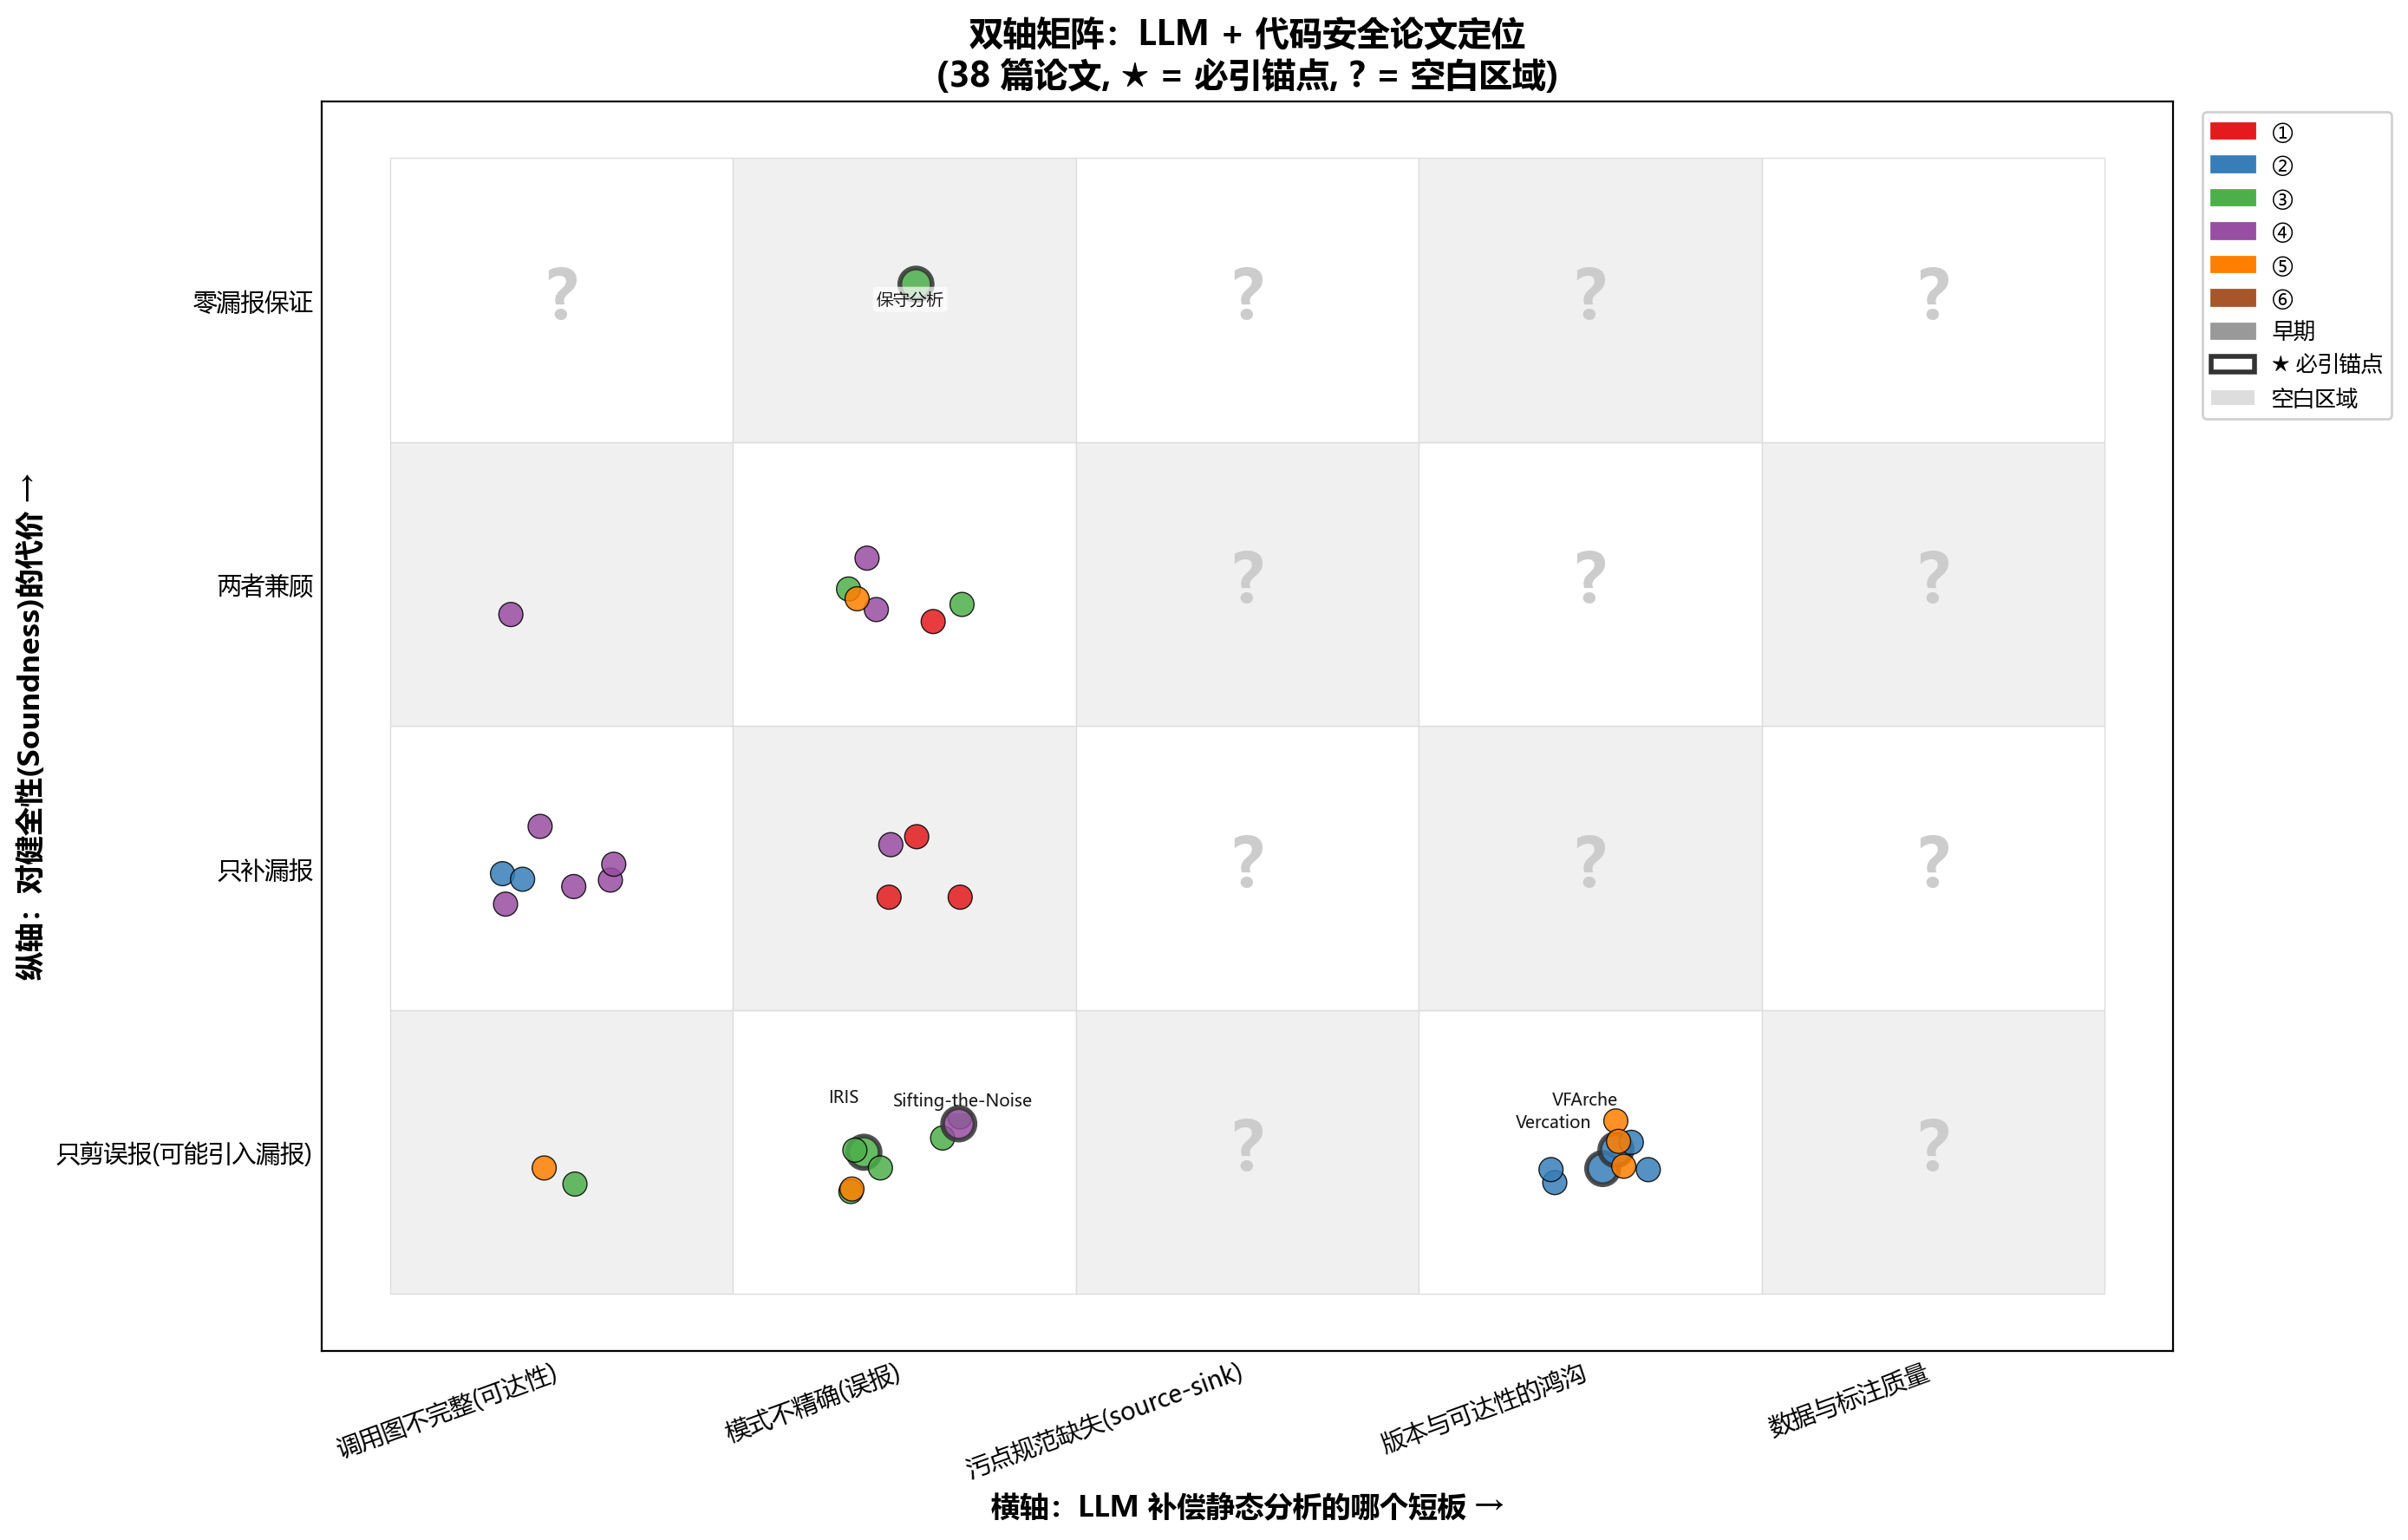
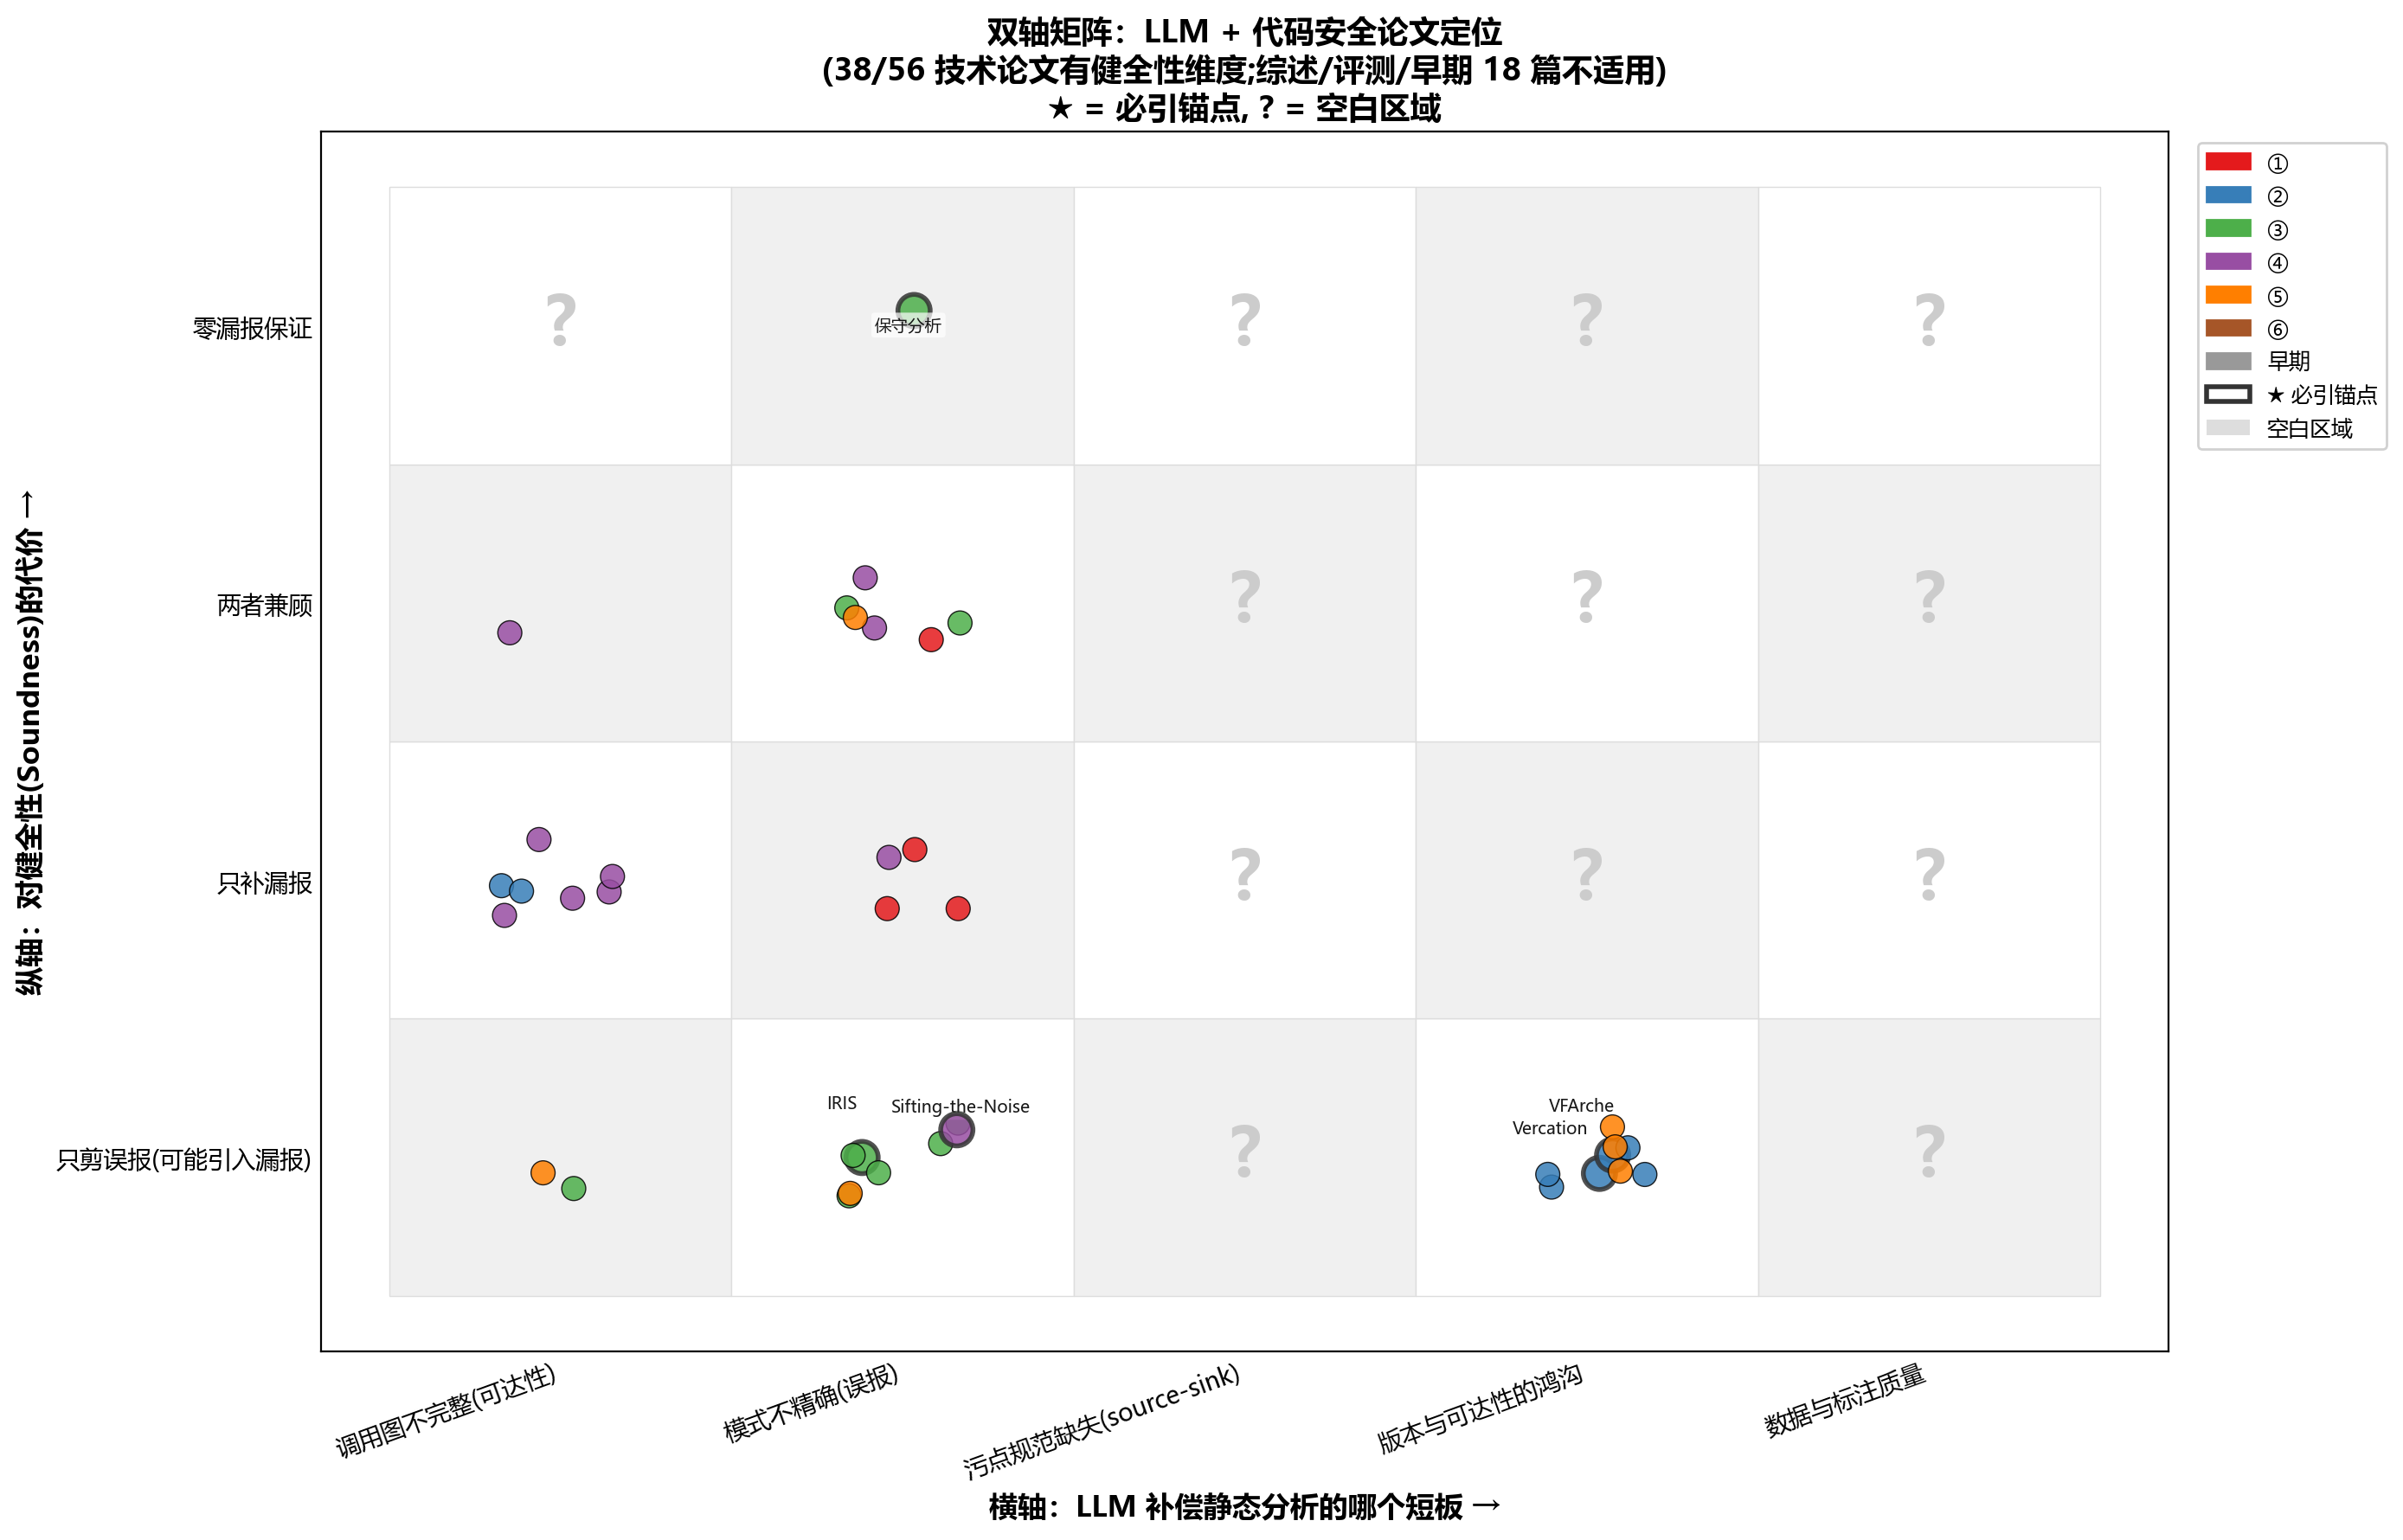
补充 18 篇就绪度评分 + matrix 标题加说明,热力图 41→56 篇全显示
papers.csv:为 18 篇缺就绪度的论文补充评分,让热力图能完整呈现 56 篇文献池:
- 综述(3):Sheng-Survey/Basic-Survey/Wang-Program-Analysis
  → 否,否,是,否(综述无需编译/不依赖云端运行/全文可读/不在代码库验证)
- 数据集(4):CleanVul/DiverseVul/Eval-Line/Croft-DataQuality
  → 否,否,部分/是,是(数据集本身无需编译/源自真实代码库)
- 早期 2022-2023(8):Pearce-ZeroShot/Fu-ChatGPT/Gao-How-Far/Ullah-Cannot-Reliably/
  Zhang-Prompt/Chan-EditTime/Xu-CodeLLMEval/Sobania-ChatGPT
  → 否,是,否,部分(片段级无需编译/全云端 LLM/无证据链/多合成基准)
- ② SCA 早期(3):Veracode-Dynamics/Patch-Localization/Similar-but-Patched

scripts/plot_matrix.py:标题加说明,解释 38/56 = 技术论文有健全性维度,
综述/评测/早期 18 篇按设计不进入矩阵(本身不持健全性立场)。

重新生成:
- 双轴矩阵图:仍 38/56 技术论文(设计内,标题已注明)
- 部署就绪度热力图:41 → 56 篇全显示

diff --git a/scripts/plot_matrix.py b/scripts/plot_matrix.py
@@ -199,9 +199,11 @@ def plot_matrix(csv_path: str, output_path: str):
     ax.set_yticklabels(Y_CATEGORIES, fontsize=10)
     ax.set_xlabel("横轴：LLM 补偿静态分析的哪个短板 →", fontsize=12, fontweight="bold")
     ax.set_ylabel("纵轴：对健全性(Soundness)的代价 →", fontsize=12, fontweight="bold")
+    n_total = len(papers)
     ax.set_title("双轴矩阵：LLM + 代码安全论文定位\n"
-                 f"({len(valid)} 篇论文, ★ = 必引锚点, ? = 空白区域)",
-                 fontsize=14, fontweight="bold")
+                 f"({len(valid)}/{n_total} 技术论文有健全性维度;综述/评测/早期 {n_total - len(valid)} 篇不适用)\n"
+                 "★ = 必引锚点, ? = 空白区域",
+                 fontsize=13, fontweight="bold")
 
     # 图例
     legend_patches = [mpatches.Patch(color=c, label=d)